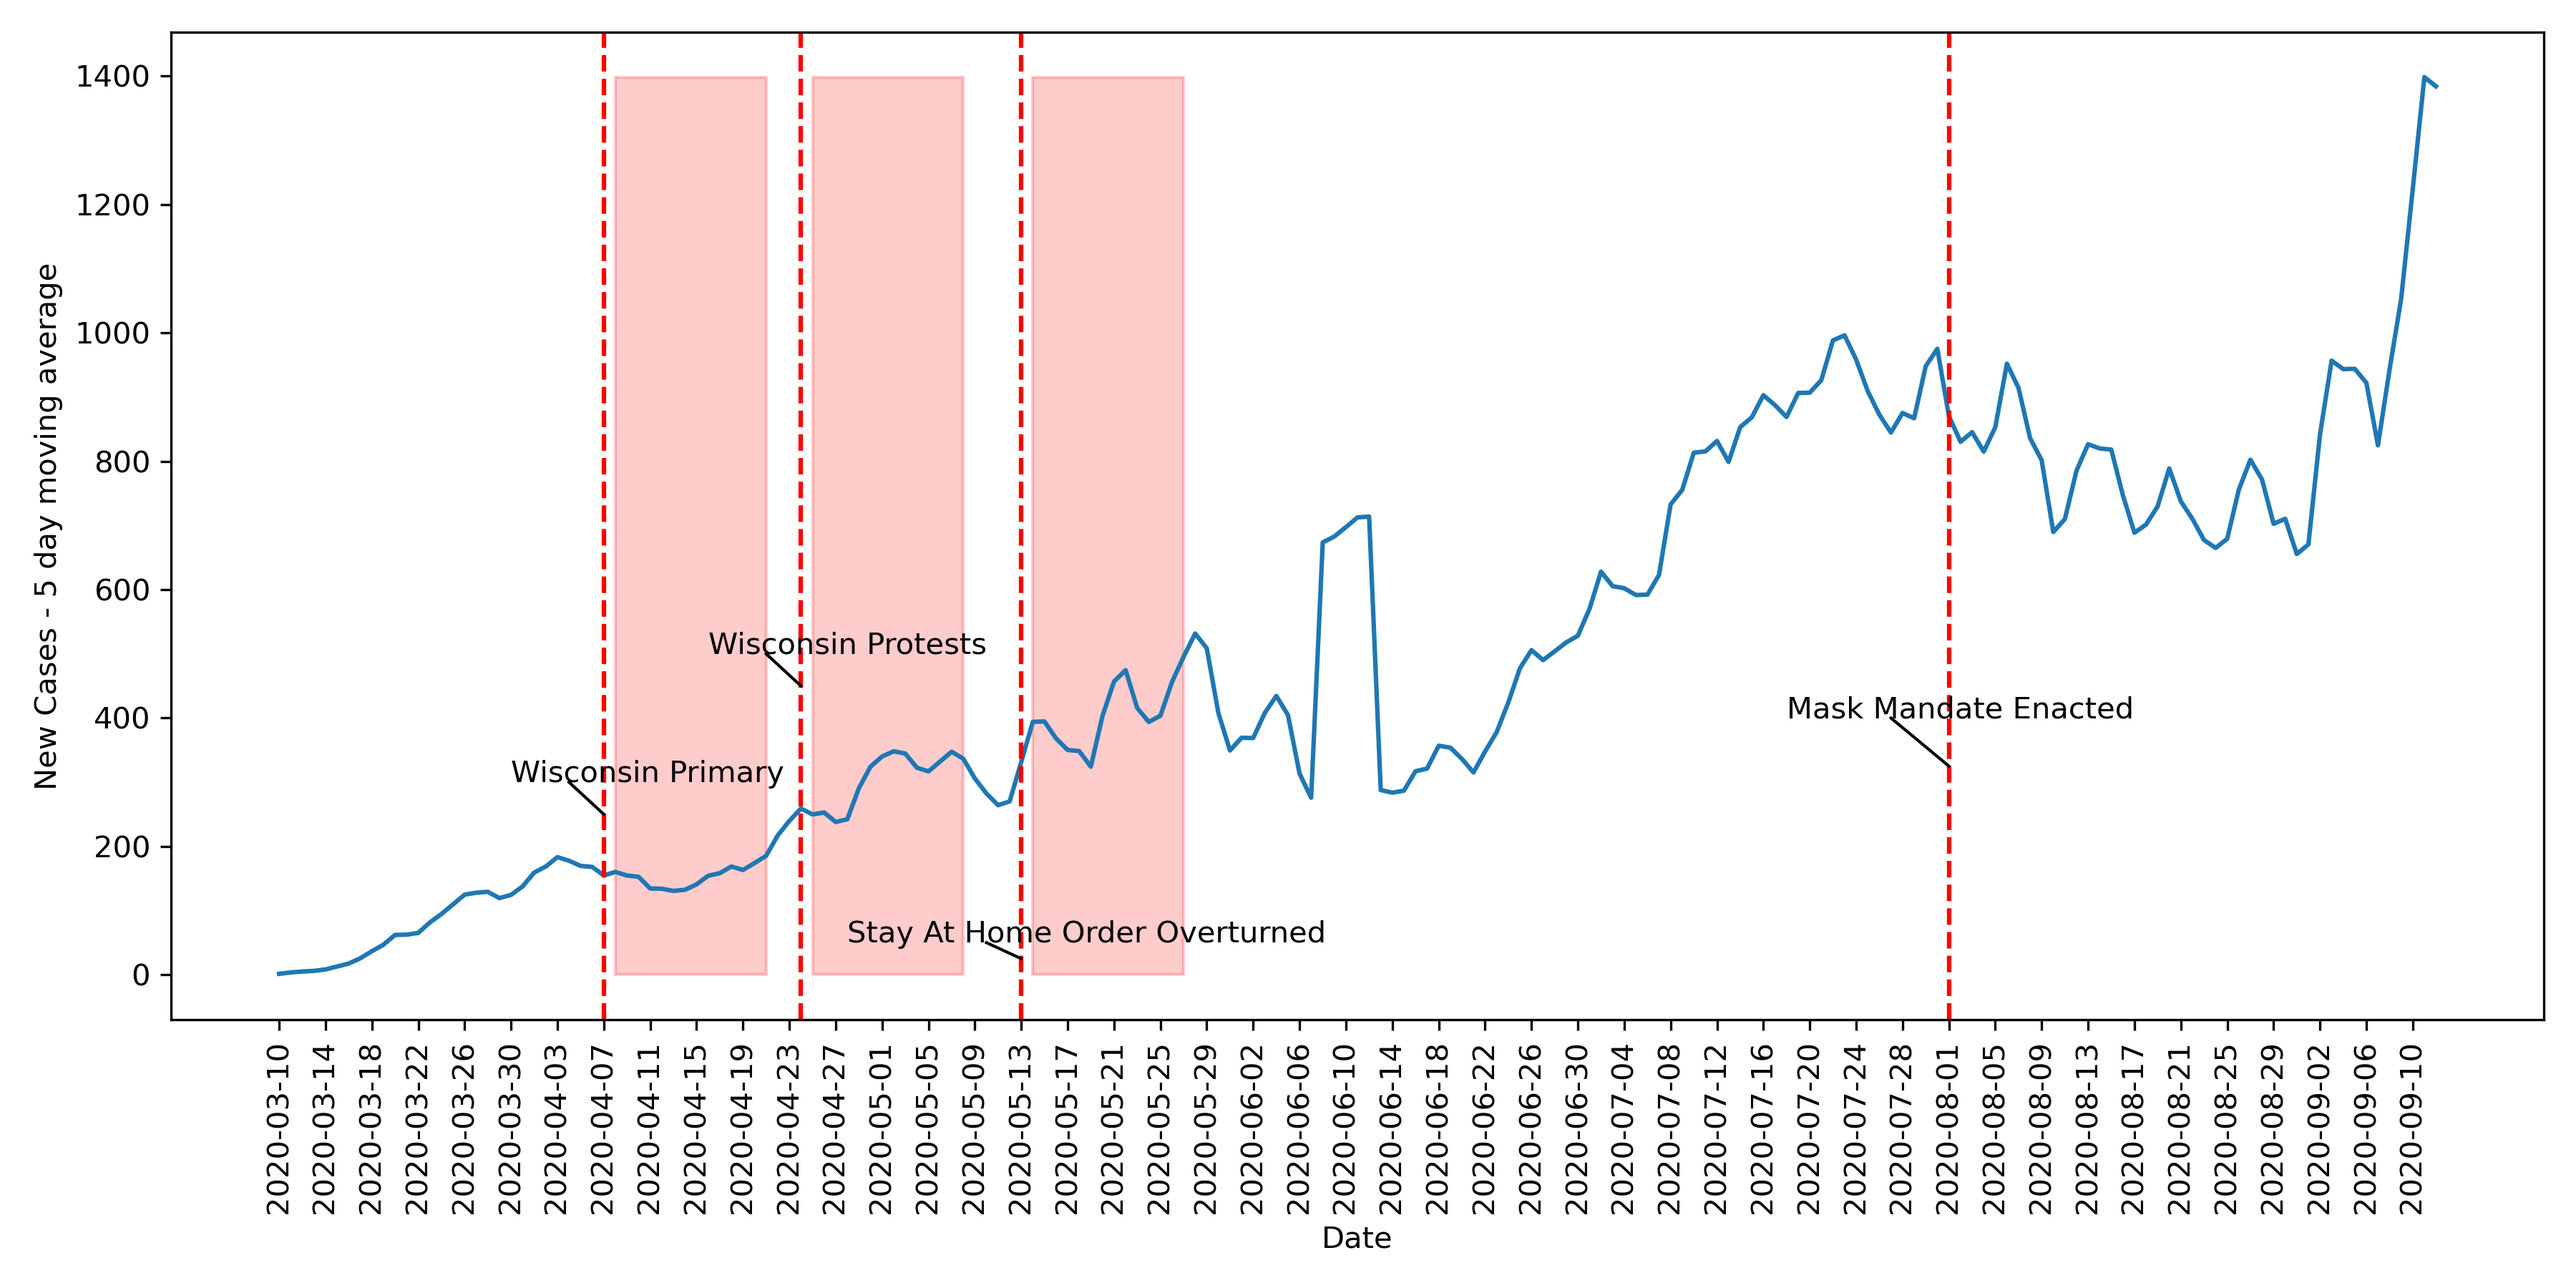
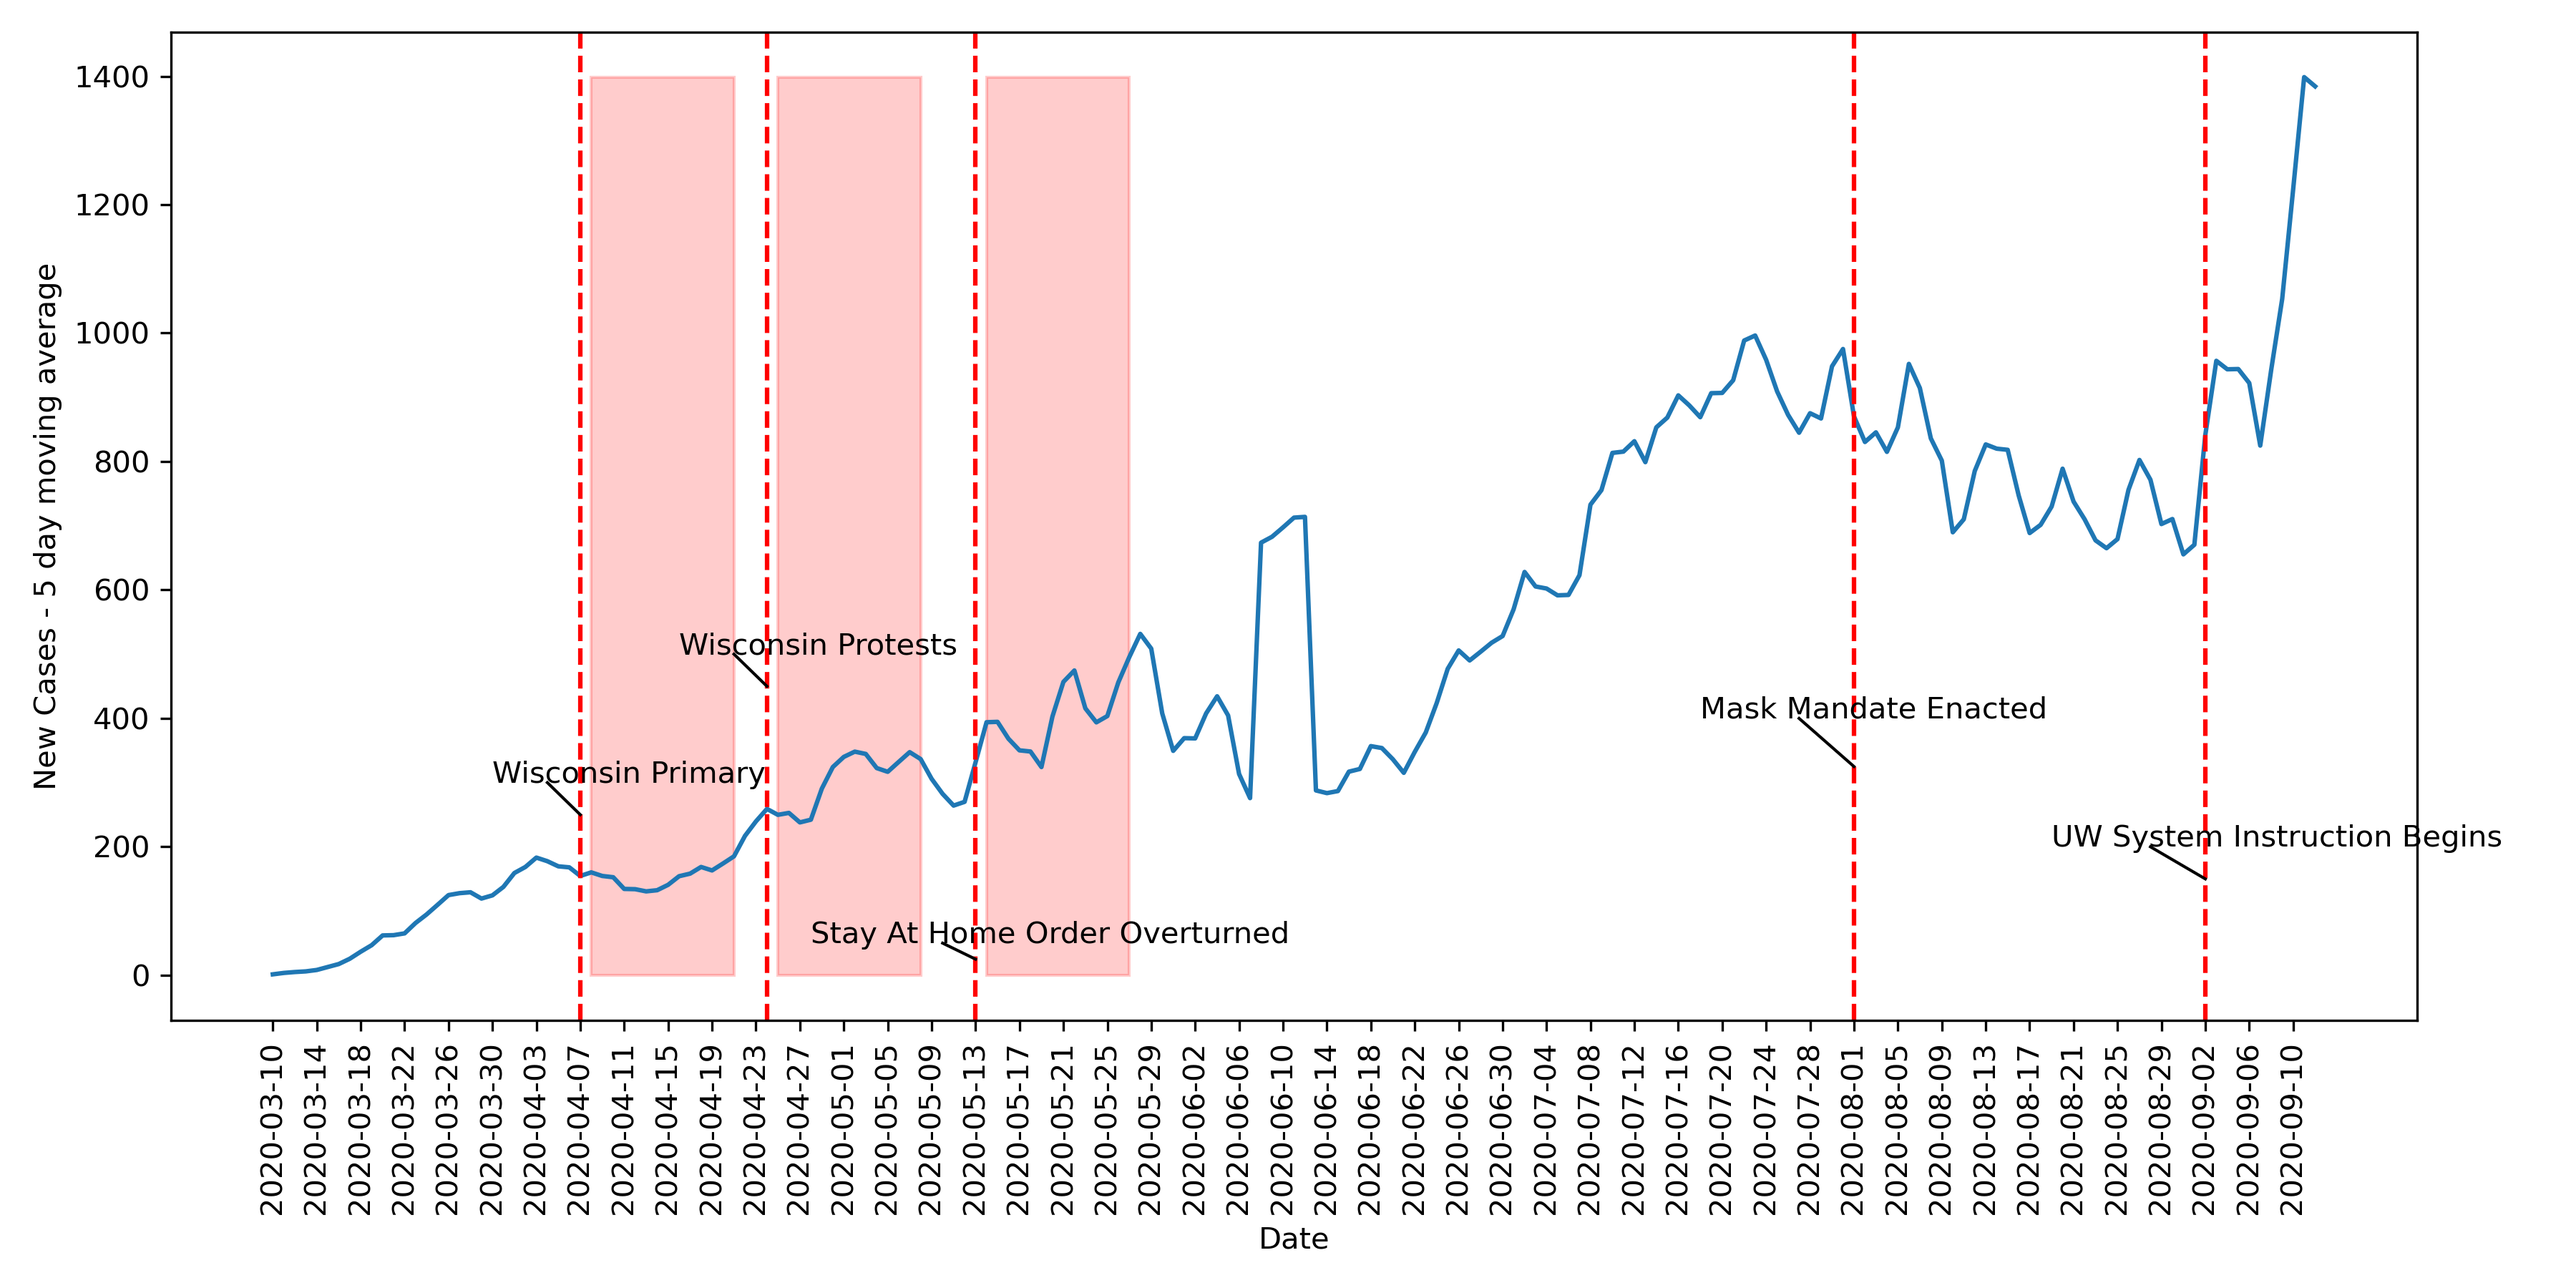
Adding first day of fall semester.

diff --git a/covid_analysis.py b/covid_analysis.py
@@ -734,7 +734,7 @@ def plot_moving_average(df: pd.DataFrame) -> None:
         cu._plot_state_moving_average(df)
     
 
-def wisconsin_election(df: pd.DataFrame=None, ma_days: int=5) -> None:
+def wisconsin_new_cases(df: pd.DataFrame=None, ma_days: int=5) -> None:
     try:
         dummy = len(df)
     except:
@@ -767,14 +767,17 @@ def wisconsin_election(df: pd.DataFrame=None, ma_days: int=5) -> None:
     plt.axvline('2020-04-24', color='red', linestyle='--')
     plt.axvline('2020-05-13', color='red', linestyle='--')
     plt.axvline('2020-08-01', color='red', linestyle='--')
+    plt.axvline('2020-09-02', color='red', linestyle='--')
     plt.text('2020-03-30', 300, 'Wisconsin Primary')
     plt.text('2020-04-16', 500, 'Wisconsin Protests')
     plt.text('2020-04-28', 50, 'Stay At Home Order Overturned')
     plt.text('2020-07-18', 400, 'Mask Mandate Enacted')
+    plt.text('2020-08-19', 200, 'UW System Instruction Begins')
     plt.plot(['2020-04-04', '2020-04-07'], [300, 250], 'black', linewidth=1)
     plt.plot(['2020-04-21', '2020-04-24'], [500, 450], 'black', linewidth=1)
     plt.plot(['2020-05-10', '2020-05-13'], [50, 25], 'black', linewidth=1)
     plt.plot(['2020-07-27', '2020-08-01'], [400, 325], 'black', linewidth=1)
+    plt.plot(['2020-08-28', '2020-09-02'], [200, 150], 'black', linewidth=1)
     
     max_date = df['date'].max()
     split_date = max_date.split("-")
@@ -797,7 +800,7 @@ def wisconsin_election(df: pd.DataFrame=None, ma_days: int=5) -> None:
     plt.savefig('plots/consequences.png', dpi=300)
     
 
-def brown_county_election(df: pd.DataFrame=None, ma_days: int=5) -> None:
+def brown_county_new_cases(df: pd.DataFrame=None, ma_days: int=5) -> None:
     # This is a dumb way of checking if a pd.DataFrame was provided.
     try:
         dummy = len(df)
